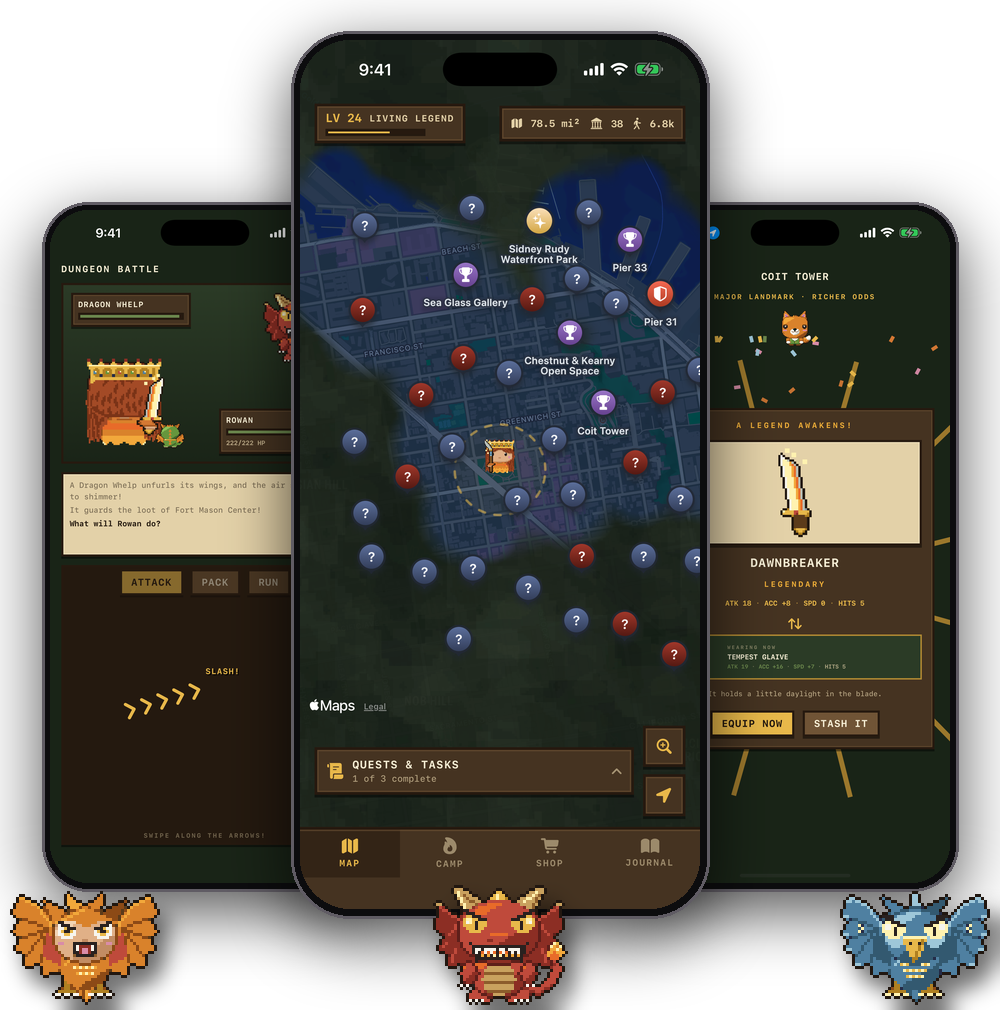
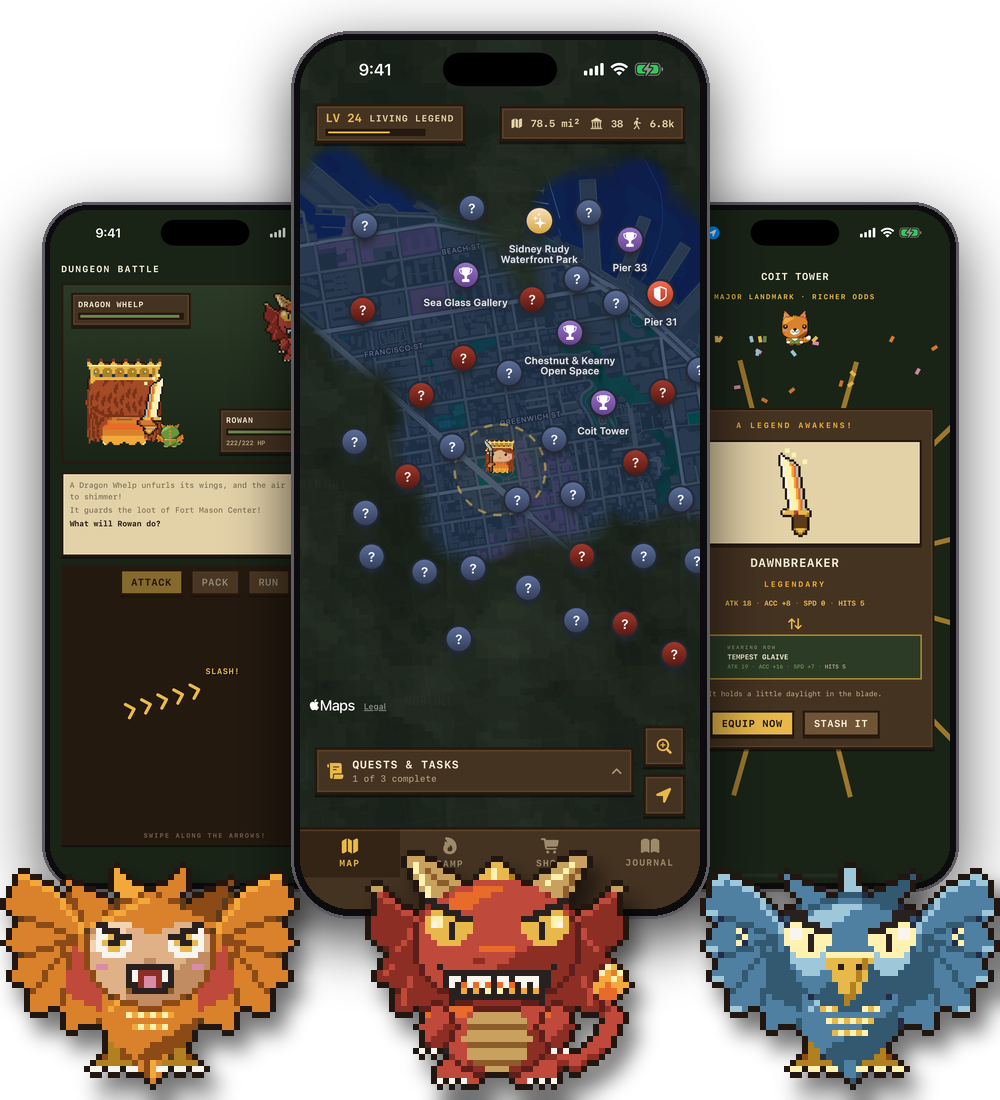
Bigger monsters in the hero art

diff --git a/index.html b/index.html
@@ -177,7 +177,7 @@
     </div>
     <picture>
       <source srcset="img/hero.webp" type="image/webp">
-      <img class="heroart" src="img/hero.png" width="1000" height="1010"
+      <img class="heroart" src="img/hero.png" width="1000" height="1100"
            alt="Three iPhones showing ByteQuest: the fog clearing over a city map, a battle with a Dragon Whelp, and a legendary sword won at Coit Tower. A harpy, a whelp and a roc stand in front.">
     </picture>
   </div>
